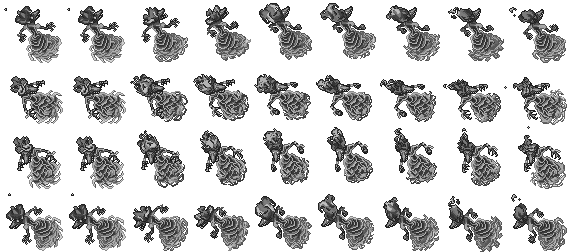
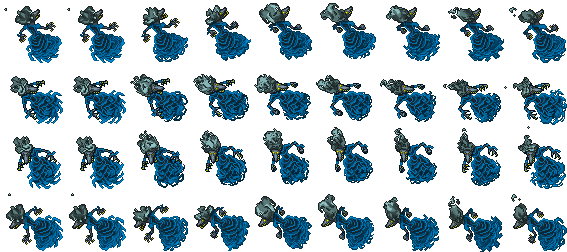
Buried Cathedral: hunt 250+ com os 4 spectres do Canary e missão do Faceless Bane
HUNT BURIED CATHEDRAL (nível 250+, categoria HUNTS 250+):
- OTBM publicado em game/maps/buried_cathedral.otbm (byte-igual ao
  beta-maps); piso z=7, bounds {1062,993}..{1081,1012};
  centermap {1071,1002,7}, playerspawn {1070,1006,7}, spawnradius
  {1066,997,7}..{1075,1006,7} — tudo validado com chão no mapa.
- 4 criaturas diretas do Canary: ripper/gazer/burster spectre +
  arachnophobica (hp/exp/dano/loot oficiais; conferidos contra os
  .lua do Canary — nenhum item de loot faltando).
- Sprites: os 3 spectres compartilham o looktype 1122 com cores de
  outfit distintas (Canary: ripper 81/78/61/94 verde, gazer 94/21/77/78
  vermelho, burster 9/10/86/79 azul). Os sheets principais estavam os 3
  IDÊNTICOS em cinza; recoloridos a partir das máscaras recuperadas dos
  .idle coloridos — validados pixel a pixel contra os 108 frames.
- 10 itens de loot fora do catálogo registrados: ectoplasms e golden
  idol of Tukh (quest, sell 0) + brown crystal splinter 400, coral
  brooch 750, hexagonal ruby 30000, prismatic quartz 450, small
  enchanted emerald 250, essence of a bad dream 360 (autoseller/Sell
  All online precificam agora). PNGs dos 10 pendem do client 15.x
  (extratores existem em tools/).
- Missão: eliminar 250 criaturas (70+60+60+60) → completeReward
  bossAccess 'faceless-bane' (def do boss vem no próximo passo).
- Servidor: HUNTS + sandbox (pool online com as 4 criaturas e preços).

Regressão tools/test_buried_cathedral.js (sem deps): OTBM publicado +
[…]

diff --git a/tibia-idle/tools/test_buried_cathedral.js b/tibia-idle/tools/test_buried_cathedral.js
@@ -1,0 +1,198 @@
+/* Regressão: Buried Cathedral (hunt 250+) — mapa, criaturas, loot, sprites
+ * e missão do Faceless Bane.
+ *
+ * 1. OTBM publicado em game/maps (byte-igual ao beta-maps) com piso z=7:
+ *    centermap {1071,1002,7}, playerspawn {1070,1006,7} e spawnradius
+ *    {1066,997,7}..{1075,1006,7} dentro dos bounds e com chão.
+ * 2. Hunt 250+ com as 4 criaturas do Canary (ripper/gazer/burster spectre +
+ *    arachnophobica); o servidor tem a hunt no HUNTS e o spawn pool online
+ *    inclui as 4.
+ * 3. Loot das 4 criaturas: nenhum item faltando no catálogo (os 10 que
+ *    faltavam foram registrados: ectoplasms/golden idol = quest sell 0;
+ *    os demais com preço NPC).
+ * 4. Sprites: os 3 spectres compartilham a MESMA sprite (looktype 1122) com
+ *    cores diferentes — os sheets principais são coloridos (verde/vermelho/
+ *    azul) e batem pixel a pixel com os frames .idle correspondentes.
+ * 5. Missão: 250 kills (70+60+60+60) → bossAccess "faceless-bane".
+ */
+"use strict";
+const fs = require("fs"), path = require("path"), vm = require("vm"), zlib = require("zlib");
+const engine = require("../server/authoritative_engine");
+function must(v, m) { if (!v) throw Error(m); }
+const root = path.join(__dirname, "..");
+const js = path.join(root, "game", "js");
+const game = path.join(root, "game");
+const OTBM = require(path.join(js, "otbm.js"));
+
+/* ---------------- 1) OTBM publicado + geometria ---------------- */
+const beta = fs.readFileSync(path.join(game, "beta-maps", "buried cathedral.otbm"));
+const pub = fs.readFileSync(path.join(game, "maps", "buried_cathedral.otbm"));
+must(beta.equals(pub), "Buried Cathedral não publica o OTBM (beta-maps ≠ maps)");
+const map = OTBM.read(pub, { z: 7 });
+must(map.sourceBounds.minX === 1062 && map.sourceBounds.minY === 993 &&
+  map.sourceBounds.maxX === 1081 && map.sourceBounds.maxY === 1012,
+  "bounds do OTBM divergentes: " + JSON.stringify(map.sourceBounds));
+const cell = (x, y) => map.cells[(x - 1062) + "," + (y - 993)];
+const grounded = (x, y) => { const c = cell(x, y); return !!(c && Number(c.g) > 0); };
+must(grounded(1070, 1006), "playerspawn {1070,1006,7} sem chão no OTBM");
+must(grounded(1071, 1002), "centermap {1071,1002,7} sem chão no OTBM");
+must(grounded(1066, 997) && grounded(1075, 1006) && grounded(1075, 997) && grounded(1066, 1006),
+  "spawnradius {1066,997}..{1075,1006} com cantos sem chão no OTBM");
+
+/* ---------------- 2) hunt (cliente + servidor) ---------------- */
+{
+  const ctx = { window: {}, console }; ctx.window = ctx; vm.createContext(ctx);
+  vm.runInContext(fs.readFileSync(path.join(js, "gamedata.js"), "utf8"), ctx, { filename: "gamedata.js" });
+  vm.runInContext(fs.readFileSync(path.join(js, "buried-cathedral.js"), "utf8"), ctx, { filename: "buried-cathedral.js" });
+  const h = vm.runInContext('window.GAMEDATA.hunts["buried-cathedral"]', ctx);
+  must(h && h.name === "Buried Cathedral" && h.level === 250 && h.minLevel === 250,
+    "hunt buried-cathedral ausente/sem nível 250+");
+  must(h.cat === "hard" && h.pack === 10 && h.packMin === 6 && h.packMax === 10, "hunt sem cat hard/pack");
+  must(JSON.stringify(h.monsters) === JSON.stringify(["ripper-spectre", "gazer-spectre", "burster-spectre", "arachnophobica"]),
+    "monstros da hunt divergentes do Canary");
+  must(h.otbm === "buried_cathedral" && h.otbmFloor === 7, "hunt sem otbm/floor");
+  must(JSON.stringify(h.otbmSpawn) === JSON.stringify({ x: 1070, y: 1006, z: 7 }) &&
+    JSON.stringify(h.otbmMobBounds) === JSON.stringify({ x: 1066, y: 997, w: 10, h: 10, z: 7 }),
+    "playerspawn/spawnradius da hunt divergentes");
+  must(h.avgHp === 4950 && h.avgExp === 4600 && h.avgDamage === 393 && h.avgArmor === 69,
+    "médias Canary da hunt divergentes");
+
+  // servidor: HUNTS + pool funcional com as 4 criaturas
+  const src = fs.readFileSync(path.join(root, "server", "authoritative_engine.js"), "utf8");
+  must(src.includes('"buried-cathedral":{monsters:["ripper-spectre","gazer-spectre","burster-spectre","arachnophobica"]'),
+    "servidor sem HUNTS de buried-cathedral");
+  const auth = { kind: "hunt", huntId: "buried-cathedral", ended: false, mobs: [], pendingSpawns: [],
+    spawnPool: [], spawnIds: ["srv-b1", "srv-b2", "srv-b3"], pack: 3, wave: 0,
+    gridW: 30, gridH: 30, spawnPoints: [{ cx: 10, cy: 10, x: 0.35, y: 0.35, sx: 0.35, sy: 0.35 }],
+    clock: Date.now(), rngState: 424242, fiendishChance: 0, influencedChance: 0 };
+  engine.spawnHuntWave(auth, Date.now());
+  must(auth.spawnPool.length === 4 &&
+    ["ripper-spectre", "gazer-spectre", "burster-spectre", "arachnophobica"]
+      .every((s) => auth.spawnPool.includes(s)),
+    "pool online não inclui as 4 criaturas: " + JSON.stringify(auth.spawnPool));
+}
+
+/* ---------------- 3) loot completo + catálogo ---------------- */
+{
+  const ctx = { window: {}, console }; ctx.window = ctx; vm.createContext(ctx);
+  for (const f of ["gamedata.js", "soulwar.js", "yasir-prices.js", "hard-hunts.js",
+    "patch_imbuement.js", "hardcore-library.js", "feast-of-souls.js",
+    "deepling-bosses.js", "buried-cathedral.js", "accessorydata.js",
+    "weapondata.js", "weapons.js", "supply-stash-data.js"])
+    vm.runInContext(fs.readFileSync(path.join(js, f), "utf8"), ctx, { filename: f });
+  const items = vm.runInContext("window.GAMEDATA.items", ctx);
+  const questZero = new Set(["green-ectoplasm", "red-ectoplasm", "blue-ectoplasm", "golden-idol-of-tukh"]);
+  for (const slug of ["ripper-spectre", "gazer-spectre", "burster-spectre", "arachnophobica"]) {
+    const m = engine.MONSTERS[slug];
+    must(m && Array.isArray(m.loot) && m.loot.length > 0, slug + " sem loot no servidor");
+    for (const l of m.loot) {
+      const it = items[l.item];
+      must(it, slug + ": item de loot fora do catálogo: " + l.item);
+      if (!questZero.has(l.item))
+        must((Number(it.npcSell) > 0 || Number(it.sell) > 0),
+          slug + ": loot sem preço (autoseller pularia): " + l.item);
+    }
+  }
+  must(items["hexagonal-ruby"] && items["hexagonal-ruby"].sell === 30000, "hexagonal-ruby sem sell 30000");
+  must(items["coral-brooch"] && items["coral-brooch"].sell === 750, "coral-brooch sem sell 750");
+  must(items["essence-of-a-bad-dream"] && items["essence-of-a-bad-dream"].sell === 360,
+    "essence-of-a-bad-dream sem sell 360");
+  must(items["green-ectoplasm"] && items["green-ectoplasm"].sell === 0 &&
+    items["golden-idol-of-tukh"] && items["golden-idol-of-tukh"].sell === 0,
+    "itens de quest deveriam ter sell 0");
+}
+
+/* ---------------- 4) sprites: mesma sprite, cores diferentes ---------------- */
+{
+  // decode PNG RGBA (sem deps)
+  function pngPixels(buf) {
+    let off = 8, w = 0, h = 0, bit = 0, ctype = 0, idat = [];
+    while (off < buf.length) {
+      const len = buf.readUInt32BE(off), type = buf.toString("ascii", off + 4, off + 8);
+      const data = buf.slice(off + 8, off + 8 + len);
+      if (type === "IHDR") { w = data.readUInt32BE(0); h = data.readUInt32BE(4); bit = data[8]; ctype = data[9]; }
+      if (type === "IDAT") idat.push(data);
+      off += 12 + len;
+    }
+    must(bit === 8 && ctype === 6, "PNG esperado RGBA 8-bit");
+    const raw = zlib.inflateSync(Buffer.concat(idat));
+    const bpp = 4, stride = w * bpp, out = Buffer.alloc(h * stride);
+    for (let y = 0; y < h; y++) {
+      const f = raw[y * (stride + 1)];
+      const line = raw.slice(y * (stride + 1) + 1, (y + 1) * (stride + 1));
+      for (let x = 0; x < stride; x++) {
+        const a = x >= bpp ? out[y * stride + x - bpp] : 0;
+        const b = y > 0 ? out[(y - 1) * stride + x] : 0;
+        const c = (x >= bpp && y > 0) ? out[(y - 1) * stride + x - bpp] : 0;
+        let v = line[x];
+        if (f === 1) v = (v + a) & 255;
+        else if (f === 2) v = (v + b) & 255;
+        else if (f === 3) v = (v + ((a + b) >> 1)) & 255;
+        else if (f === 4) {
+          const p = a + b - c, pa = Math.abs(p - a), pb = Math.abs(p - b), pc = Math.abs(p - c);
+          v = (v + (pa <= pb && pa <= pc ? a : pb <= pc ? b : c)) & 255;
+        }
+        out[y * stride + x] = v;
+      }
+    }
+    return { w, h, data: out };
+  }
+  const slugs = ["ripper-spectre", "gazer-spectre", "burster-spectre"];
+  const sheets = {};
+  for (const s of slugs) {
+    const buf = fs.readFileSync(path.join(game, "assets", "mob", s + ".png"));
+    const px = pngPixels(buf);
+    must(px.w === 567 && px.h === 252, s + " com sheet fora de 9×4 @63px");
+    sheets[s] = px;
+  }
+  const sig = (s) => {
+    const d = s.data; let r = 0, g = 0, b = 0;
+    for (let i = 0; i < d.length; i += 4) if (d[i + 3] > 0) { r += d[i]; g += d[i + 1]; b += d[i + 2]; }
+    return { r, g, b };
+  };
+  const sr = sig(sheets["ripper-spectre"]), sg = sig(sheets["gazer-spectre"]), sb = sig(sheets["burster-spectre"]);
+  must(sr.g > sr.r && sr.g > sr.b, "ripper-spectre deveria dominar VERDE: " + JSON.stringify(sr));
+  must(sg.r > sg.g && sg.r > sg.b, "gazer-spectre deveria dominar VERMELHO: " + JSON.stringify(sg));
+  must(sb.b > sb.r && sb.b > sb.g, "burster-spectre deveria dominar AZUL: " + JSON.stringify(sb));
+  // mesma sprite: alpha idêntico entre os 3
+  for (let i = 3; i < sheets["ripper-spectre"].data.length; i += 4)
+    must(sheets["ripper-spectre"].data[i] === sheets["gazer-spectre"].data[i] &&
+      sheets["ripper-spectre"].data[i] === sheets["burster-spectre"].data[i],
+      "alpha dos 3 spectres divergiu (sprites diferentes?)");
+  // cores do frame principal (col 0) batem pixel a pixel com o .idle col 0
+  for (const s of slugs) {
+    const idle = pngPixels(fs.readFileSync(path.join(game, "assets", "mob", s + ".idle.png")));
+    must(idle.w === 504 && idle.h === 252, s + " idle fora de 8×4 @63px");
+    const m = sheets[s];
+    for (let y = 0; y < 63; y++) {
+      for (let x = 0; x < 63; x++) {
+        // linha s (row 2), col 0 em ambos
+        const mi = ((2 * 63 + y) * m.w + x) * 4;
+        const ii = ((2 * 63 + y) * idle.w + x) * 4;
+        for (let ch = 0; ch < 4; ch++)
+          must(m.data[mi + ch] === idle.data[ii + ch],
+            s + ": main col0 não bate com idle col0 (recolor quebrou)");
+      }
+    }
+  }
+}
+
+/* ---------------- 5) missão 250 kills → Faceless Bane ---------------- */
+{
+  const src = fs.readFileSync(path.join(js, "buried-cathedral.js"), "utf8");
+  must(src.includes('MISSION_DEFS["buried-cathedral"]') &&
+    src.includes('bossAccess: "faceless-bane"') && src.includes('bossName: "Faceless Bane"'),
+    "missão do Faceless Bane ausente");
+  const targets = [...src.matchAll(/monster: "([a-z-]+)", target: (\d+)/g)];
+  const total = targets.reduce((a, t) => a + Number(t[2]), 0);
+  must(total === 250 && targets.length === 4, "missão deveria somar 250 kills em 4 tasks: " + total);
+  const uiSrc = fs.readFileSync(path.join(js, "ui.js"), "utf8");
+  must(uiSrc.includes('"HUNTS 250+"') && uiSrc.includes('"buried-cathedral"'),
+    "ui.js sem buried-cathedral na seção HUNTS 250+");
+  const html = fs.readFileSync(path.join(game, "index.html"), "utf8");
+  must(html.includes("buried-cathedral.js?v=buried-cathedral-v1") &&
+    html.includes("ui.js?v=buried-cathedral-v1"),
+    "cache-busts do buried cathedral ausentes no index");
+}
+
+console.log("ok: buried cathedral (mapa + hunt 250+ + loot completo + sprites coloridos + missão Faceless Bane)");

diff --git a/tibia-idle/game/js/buried-cathedral.js b/tibia-idle/game/js/buried-cathedral.js
@@ -1,0 +1,117 @@
+/* buried-cathedral.js — HUNT BURIED CATHEDRAL (categoria 250+).
+ *
+ * Hunt nova do Roshamuul abaixo do Haunted Nexus (The Dream Courts Quest):
+ * 4 criaturas diretas do Canary — Ripper Spectre, Gazer Spectre, Burster
+ * Spectre e Arachnophobica (mesmos looktypes do Canary: os três spectres
+ * compartilham o looktype 1122 com cores de outfit distintas
+ * lookHead/lookBody/lookLegs/lookFeet; Arachnophobica usa looktype 1135).
+ *
+ * Este patch:
+ *   (1) garante no catálogo os 10 itens de loot que faltavam (3 ectoplasms,
+ *       golden idol of Tukh — itens de quest sem comprador NPC, sell 0 —
+ *       e os demais com os valores oficiais de venda a NPC da TibiaWiki);
+ *   (2) registra a hunt técnica do piso z=7 (game/maps/buried_cathedral.otbm,
+ *       publicada a partir de beta-maps/);
+ *   (3) registra a missão: eliminar 250 criaturas (70+60+60+60) para liberar
+ *       o acesso ao boss Faceless Bane (completeReward.bossAccess).
+ *
+ * Coordenadas absolutas do RME: centermap {1071,1002,7},
+ * playerspawn {1070,1006,7}, spawnradius {1066,997,7}..{1075,1006,7}.
+ *
+ * O arquivo também roda no sandbox vm do servidor (authoritative_engine):
+ * lá só a parte de itens/hunt executa (MISSION_DEFS não existe no vm), o que
+ * põe os itens do loot no catálogo ITEMS para o Sell All online.
+ */
+"use strict";
+
+/* Geometria do mapa (coordenadas absolutas do RME). */
+const BURIED_CATHEDRAL = {
+  otbm: "buried_cathedral",
+  name: "Buried Cathedral",
+  center: { x: 1071, y: 1002, z: 7 },   // centermap
+  spawn: { x: 1070, y: 1006, z: 7 },    // playerspawn
+  mob: { x: 1066, y: 997, w: 10, h: 10, z: 7 }, // spawnradius
+};
+
+/* Itens de loot do Canary que faltavam no catálogo. Pesos e valores de
+ * venda oficiais (TibiaWiki): os 3 ectoplasms e o golden idol of Tukh são
+ * itens de quest (10 min de duração, sem NPC comprador) → sell 0 e o
+ * Sell All / autoseller pulam, padrão do jogo. */
+const BURIED_LOOT_ITEMS = {
+  "green-ectoplasm":           { n: "green ectoplasm", s: null, t: "loot", cid: 30083, w: 1.00, sell: 0, npcSell: 0 },
+  "red-ectoplasm":             { n: "red ectoplasm", s: null, t: "loot", cid: 30084, w: 1.00, sell: 0, npcSell: 0 },
+  "blue-ectoplasm":            { n: "blue ectoplasm", s: null, t: "loot", cid: 30082, w: 1.00, sell: 0, npcSell: 0 },
+  "golden-idol-of-tukh":       { n: "golden idol of Tukh", s: null, t: "loot", cid: 29299, w: 20.00, sell: 0, npcSell: 0 },
+  "brown-crystal-splinter":    { n: "brown crystal splinter", s: null, t: "loot", cid: 16123, w: 0.10, sell: 400, npcSell: 400 },
+  "coral-brooch":              { n: "coral brooch", s: null, t: "loot", cid: 24391, w: 0.80, sell: 750, npcSell: 750 },
+  "hexagonal-ruby":            { n: "hexagonal ruby", s: null, t: "loot", cid: 30180, w: 1.25, sell: 30000, npcSell: 30000 },
+  "prismatic-quartz":          { n: "prismatic quartz", s: null, t: "loot", cid: 24962, w: 1.20, sell: 450, npcSell: 450 },
+  "small-enchanted-emerald":   { n: "small enchanted emerald", s: null, t: "loot", cid: 677, w: 0.10, sell: 250, npcSell: 250 },
+  "essence-of-a-bad-dream":    { n: "essence of a bad dream", s: null, t: "loot", cid: null, w: 0.95, sell: 360, npcSell: 360 },
+};
+
+/* Médias das 4 criaturas (Canary: hp/exp/dano/armor). */
+const BURIED_AVG = { hp: 4950, exp: 4600, damage: 393, armor: 69, gold: 120 };
+
+(function registerBuriedCathedral() {
+  if (typeof GAMEDATA === "undefined") return;
+  const items = GAMEDATA.items || (GAMEDATA.items = {});
+
+  for (const slug in BURIED_LOOT_ITEMS) {
+    const def = BURIED_LOOT_ITEMS[slug];
+    if (!items[slug]) items[slug] = def;
+    else {
+      items[slug].sell = def.sell;
+      items[slug].npcSell = def.npcSell;
+      if (def.cid != null && items[slug].cid == null) items[slug].cid = def.cid;
+      if (def.w != null && items[slug].w == null) items[slug].w = def.w;
+    }
+  }
+
+  if (!GAMEDATA.hunts) GAMEDATA.hunts = {};
+  GAMEDATA.hunts["buried-cathedral"] = {
+    name: BURIED_CATHEDRAL.name,
+    level: 250,
+    minLevel: 250,
+    cat: "hard",
+    pack: 10,
+    packMin: 6,
+    packMax: 10,
+    monsters: ["ripper-spectre", "gazer-spectre", "burster-spectre", "arachnophobica"],
+    color: "#4a3f66",
+    scene: "crypt",
+    otbm: BURIED_CATHEDRAL.otbm,
+    otbmFloor: 7,
+    otbmFovBounds: { x: 1062, y: 993, w: 20, h: 20, z: 7 },
+    otbmRuntimeWidth: 30,
+    otbmRuntimeHeight: 30,
+    otbmSpawn: BURIED_CATHEDRAL.spawn,
+    otbmMobBounds: BURIED_CATHEDRAL.mob,
+    avgHp: BURIED_AVG.hp,
+    avgExp: BURIED_AVG.exp,
+    avgDamage: BURIED_AVG.damage,
+    avgArmor: BURIED_AVG.armor,
+    avgGold: BURIED_AVG.gold,
+    respawn: 1,
+  };
+
+  /* Missão: eliminar 250 criaturas (70+60+60+60) → libera o acesso ao boss
+   * Faceless Bane (o def do boss vem depois; o gate de acesso usa o mesmo
+   * padrão dos Goshnar: BOSS_DEFS.entry = {mission, access}). */
+  if (typeof MISSION_DEFS !== "undefined") {
+    MISSION_DEFS["buried-cathedral"] = {
+      title: "Missão: Buried Cathedral",
+      tasks: [
+        { monster: "ripper-spectre", target: 70,
+          reward: { supplies: [{ slug: "ultimate-health-potion", count: 3 }] } },
+        { monster: "gazer-spectre", target: 60,
+          reward: { supplies: [{ slug: "ultimate-mana-potion", count: 3 }] } },
+        { monster: "burster-spectre", target: 60,
+          reward: { supplies: [{ slug: "ultimate-spirit-potion", count: 3 }] } },
+        { monster: "arachnophobica", target: 60,
+          reward: { supplies: [{ slug: "ultimate-health-potion", count: 3 }] } },
+      ],
+      completeReward: { bossAccess: "faceless-bane", bossName: "Faceless Bane" },
+    };
+  }
+})();

diff --git a/tibia-idle/server/authoritative_engine.js b/tibia-idle/server/authoritative_engine.js
@@ -408,6 +408,9 @@ try{
   // Deeplings World Change: itens de loot (broccoli, true book of death) +
   // hunt da bossroom — sem isso o Sell All online não precifica os drops.
   try{vm.runInNewContext(fs.readFileSync(path.join(js,"deepling-bosses.js"),"utf8"),sandbox);}catch(_dp){/* opcional */}
+  // Buried Cathedral: itens de loot (ectoplasms, hexagonal ruby etc.) +
+  // hunt 250+ — sem isso o Sell All online não precifica os drops.
+  try{vm.runInNewContext(fs.readFileSync(path.join(js,"buried-cathedral.js"),"utf8"),sandbox);}catch(_bc){/* opcional */}
   vm.runInNewContext(fs.readFileSync(path.join(js,"weapondata.js"),"utf8"),sandbox);
   sandbox.WEAPONDATA=sandbox.window.WEAPONDATA;
   vm.runInNewContext(fs.readFileSync(path.join(js,"weapons.js"),"utf8"),sandbox);
@@ -465,6 +468,7 @@ for(const slug of Object.keys(QAMMO)){
 const HUNTS=Object.assign(read("hunts.json"),{
   "mota-extension":{monsters:["floating-savant","retching-horror","fury","hellhound","demon"],cat:"hard",pack:10,packMin:6,packMax:10},
   "cobra-bastion":{monsters:["cobra-vizier","cobra-scout","cobra-assassin"],cat:"hard",pack:10,packMin:6,packMax:10},
+  "buried-cathedral":{monsters:["ripper-spectre","gazer-spectre","burster-spectre","arachnophobica"],cat:"hard",pack:10,packMin:6,packMax:10},
   "timira-room":{monsters:["timira-the-many-headed"]},
   "library-fire":{monsters:["burning-book","rage-squid","biting-book"],cat:"hardcore",pack:12,packMin:10,packMax:12},
   "library-energy":{monsters:["energetic-book","biting-book"],cat:"hardcore",pack:12,packMin:10,packMax:12},

diff --git a/tibia-idle/game/index.html b/tibia-idle/game/index.html
@@ -621,7 +621,7 @@
 <script src="js/yasir-prices.js?v=autosell-cprices-v1"></script>
 <script src="js/cyclopedia.js?v=npc-sprites-canary-v1"></script>
 <script src="js/bosstiary.js"></script>
-<script src="js/ui.js?v=bagdesire-online-v1"></script>
+<script src="js/ui.js?v=buried-cathedral-v1"></script>
 <script src="js/helper-presets.js?v=helper-presets-v1"></script>
 <script src="js/i18n.js?v=store-mp-v1"></script>
 <script src="js/alpha-announce.js?v=store-mp-v1"></script>
@@ -663,6 +663,7 @@
 <script src="js/scarlett-boss.js?v=scarlett-fluid-v2"></script>
 <script src="js/feast-of-souls.js?v=paleworm-v1"></script>
 <script src="js/deepling-bosses.js?v=deepling-v1"></script>
+<script src="js/buried-cathedral.js?v=buried-cathedral-v1"></script>
 <script src="js/world-boss-ui.js?v=wb-shared-v1"></script>
 <script src="js/megalomania-lobby.js?v=mega-auth-backoff-v1"></script>
 <script src="js/pale-worm-lobby.js?v=paleworm-auth-backoff-v1"></script>

diff --git a/tibia-idle/game/js/ui.js b/tibia-idle/game/js/ui.js
@@ -963,7 +963,7 @@ function bindCatalogAccordion(root, mode) {
 const HUNT_MODAL_SECTIONS = [
   { title: "HUNTS LEVEL 0–100", ids: ["rats", "amazon-camp"] },
   { title: "HUNTS 100–250", ids: [] },
-  { title: "HUNTS 250+", ids: ["mota-extension", "cobra-bastion", "marapur-nagas"] },
+  { title: "HUNTS 250+", ids: ["mota-extension", "cobra-bastion", "marapur-nagas", "buried-cathedral"] },
   { title: "LIBRARY SESSION 400+", ids: ["library-fire", "library-energy", "library-ice", "library-earth"] },
   { title: "SOULWAR 400+", ids: ["dark-thais", "rotten-wasteland", "claustrophobic-inferno", "ebb-and-flow"] },
 ];

diff --git a/tibia-idle/tools/test_modal_accordion.js b/tibia-idle/tools/test_modal_accordion.js
@@ -23,7 +23,7 @@ must(css.includes("#bosses-modal-list { display: flex; flex-direction: column;")
      css.includes(".accordion-section .hunt-cat-title::before") &&
      css.includes('content: "▸"'),
   "CSS das abas de categoria ausente ou incompleto");
-for (const ref of ['css/layout.css?v=', 'js/ui.js?v=bagdesire-online-v1', 'js/game.js?v='])
+for (const ref of ['css/layout.css?v=', 'js/ui.js?v=buried-cathedral-v1', 'js/game.js?v='])
   must(html.includes(ref), "cache-bust ausente: " + ref);
 
 /* ---------- lógica real do accordion (vm + DOM fake) ---------- */

diff --git a/tibia-idle/tools/test_hunts_modal.js b/tibia-idle/tools/test_hunts_modal.js
@@ -38,7 +38,7 @@ must(cityUi.includes("data-open-hunts-catalog")&&!cityUi.includes("Object.keys(G
 const expected=[
  ["HUNTS LEVEL 0–100",["rats","amazon-camp"]],
  ["HUNTS 100–250",[]],
- ["HUNTS 250+",["mota-extension","cobra-bastion","marapur-nagas"]],
+ ["HUNTS 250+",["mota-extension","cobra-bastion","marapur-nagas","buried-cathedral"]],
  ["LIBRARY SESSION 400+",["library-fire","library-energy","library-ice","library-earth"]],
  ["SOULWAR 400+",["dark-thais","rotten-wasteland","claustrophobic-inferno","ebb-and-flow"]],
 ];

diff --git a/tibia-idle/tools/test_soulwar_fixes.js b/tibia-idle/tools/test_soulwar_fixes.js
@@ -101,7 +101,7 @@ const js = path.join(root, "game", "js");
     "menu Abrir da bag sem caminho online");
   const html = fs.readFileSync(path.join(root, "game", "index.html"), "utf8");
   must(html.includes("yasir-prices.js?v=autosell-cprices-v1") &&
-    html.includes("ui.js?v=bagdesire-online-v1") &&
+    html.includes("ui.js?v=") &&
     html.includes("account-client.js?v=bagdesire-online-v1"),
     "cache-busts do pacote soulwar ausentes no index");
 }
